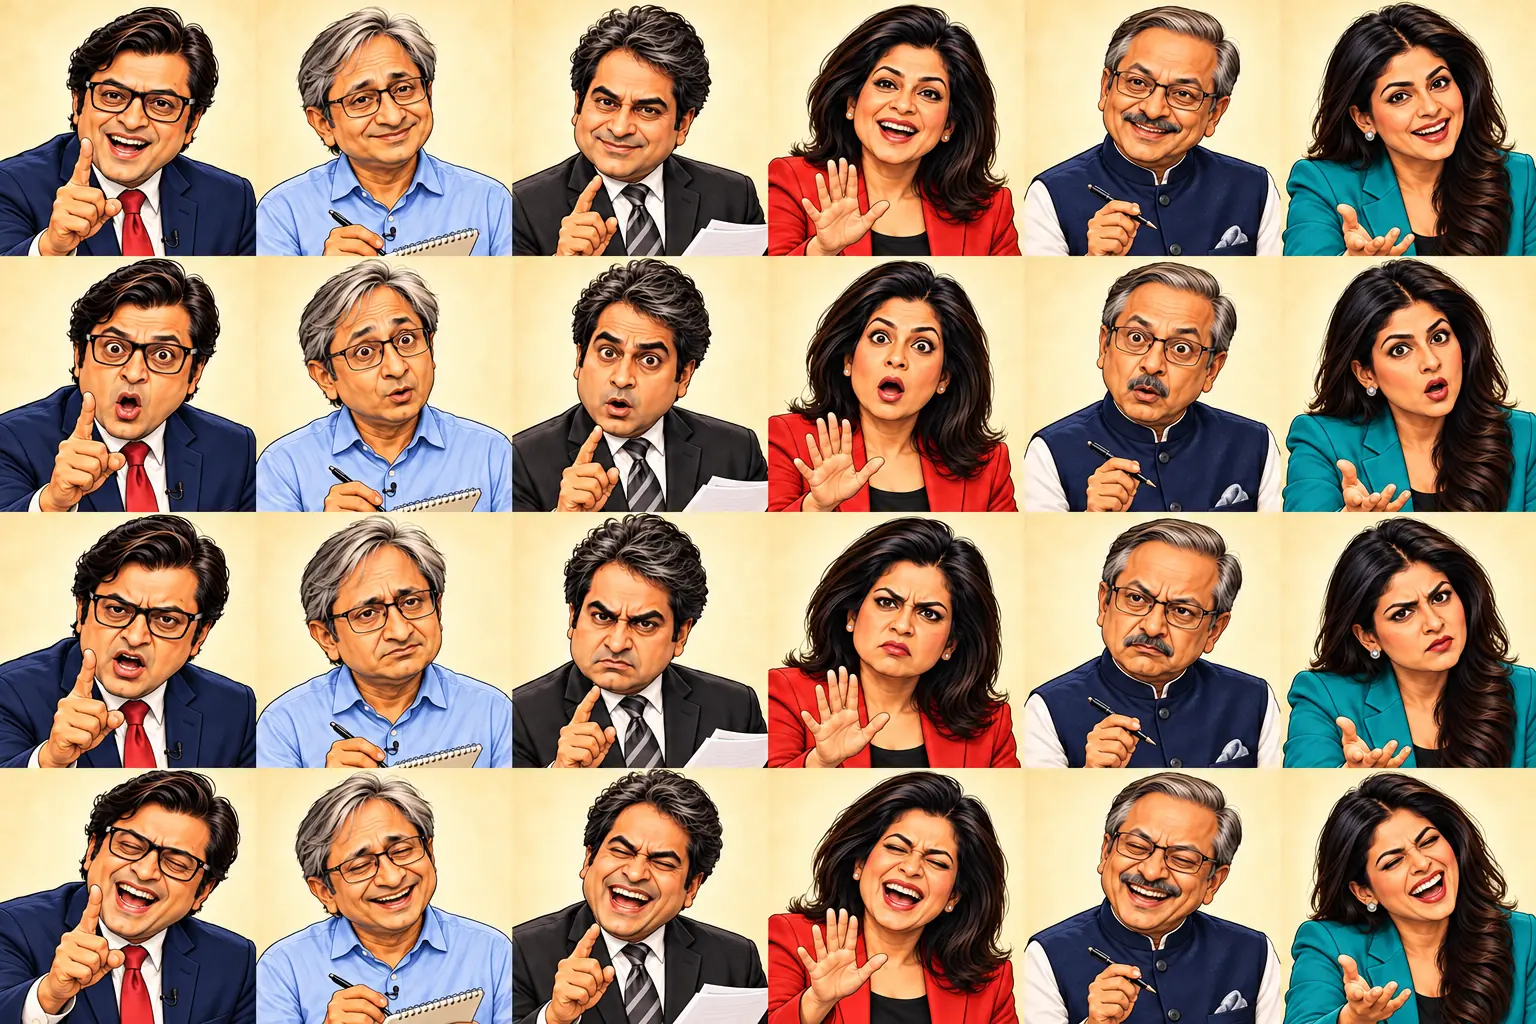
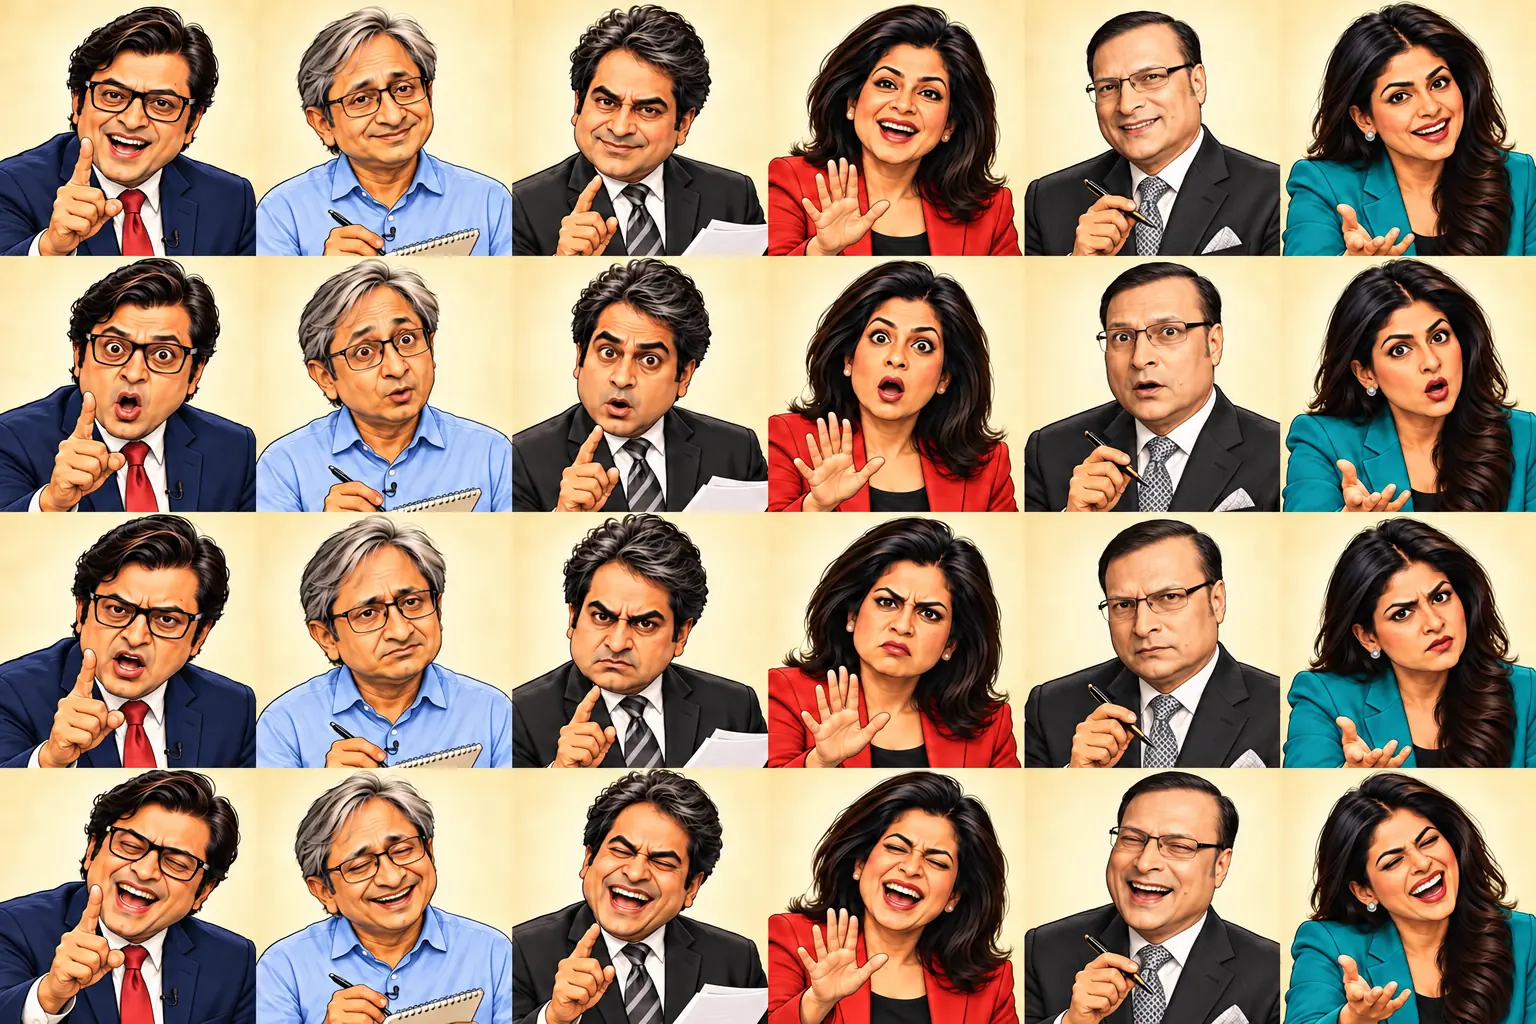
Correct Adalat Uncle portrait and reaction likeness

diff --git a/apps/satire-arena/ARTWORK.md b/apps/satire-arena/ARTWORK.md
@@ -126,6 +126,33 @@ Full generation prompt: Use case: illustration-story. Reference image is style o
 Inkpot: original app-owned SVG in catalogue.mjs, reused in reaction controls and the throw projectile. No downloaded icon, font or raster is required. Blue ink and existing splash feedback remain unchanged.
 # News-anchor portraits (2026-10-23)
 
+### Adalat Uncle likeness correction (2026-10-24)
+
+Replaced his base portrait (bottom centre) and all four reaction portraits
+(fifth column: happy, startled, annoyed, laughing) using built-in imagegen.
+Visual reference: [India TV's Rajat Sharma studio portrait](https://www.indiatvnews.com/entertainment/celebrities/india-tv-editor-in-chief-rajat-sharma-birthday-wishes-from-bollywood-salman-khan-srk-kangana-ranaut-2022-02-18-760225).
+The reference photograph is not distributed with the app. Corrected features:
+clean-shaven face, neat dark side-parted hair, thin rectangular glasses and
+charcoal suit with white shirt and patterned tie. Other cast identities, grids,
+asset paths, character IDs and vote records are retained.
+
+Base edit prompt: Edit only the bottom-centre portrait in the existing 3-by-2
+sheet to a recognisable Rajat Sharma editorial caricature, using the supplied
+photograph for facial identity. Absolutely no moustache or beard; short dark
+side-parted hair, slightly receding hairline, thin rectangular glasses, broad
+oval face and rounded cheeks. Charcoal suit, white shirt, patterned grey tie,
+pocket square and pen. Preserve the other five portraits, warm cream background,
+complete head/chest framing and exact equal-square grid, without text or logos.
+
+Expression edit prompt: Replace only column five of the existing 6-by-4 sheet
+with the corrected base identity and clothing. Rows: delighted beaming smile;
+startled wide eyes and open O mouth; offended scowl with lowered eyebrows and
+downturned lips; hearty open-mouth laughter with eyes squeezed shut. Preserve
+the other five columns and exact square-cell boundaries. Both sheets were
+visually reviewed and encoded at their existing 1536-by-1024 size, WebP qualities
+85 (base) and 76 (expressions). Shared sprite crops cover cards, profiles,
+related cast and downloaded artwork.
+
 `frontend/anchors-fast.webp` is a new AI-generated cartoon sprite grid, created
 with the built-in imagegen tool for this project. Six deliberately fictional
 spoofs draw on recognisable public on-air appearances of Arnab Goswami, Ravish

diff --git a/docs/FUNCTIONALITY_LEDGER.md b/docs/FUNCTIONALITY_LEDGER.md
@@ -1,5 +1,16 @@
 # Chambers functionality ledger
 
+**Adalat Uncle artwork correction (2026-10-24):** Replaced the inaccurate
+moustached portrait with a clean-shaven Rajat Sharma-inspired caricature in
+formal suit, and matched all four reaction expressions to the corrected face.
+The existing base/expression sprite paths and dimensions cover arena cards,
+detail/related portraits and shared artwork without changing IDs or ballots.
+Both sheets visually reviewed; combined WebP size falls 475,564 to 421,888 bytes
+(-11.3%). Reference and edit prompts: `apps/satire-arena/ARTWORK.md`.
+Verification: focused sprite/deferred-artwork and genuine share-download browser
+checks both pass (2 tests); production Wrangler dry-run succeeds. No code, schema
+or data changes. Production visual/hash verification follows deployment.
+
 **Satire loading/reuse cleanup (2026-10-24, deployed and live verified):**
 Implementation commits `6c5a5af` and `965cffd` are live as Worker
 `977d2244-99ed-483d-b31f-545c6464963b`, deployed with `--keep-vars` and no migration.
